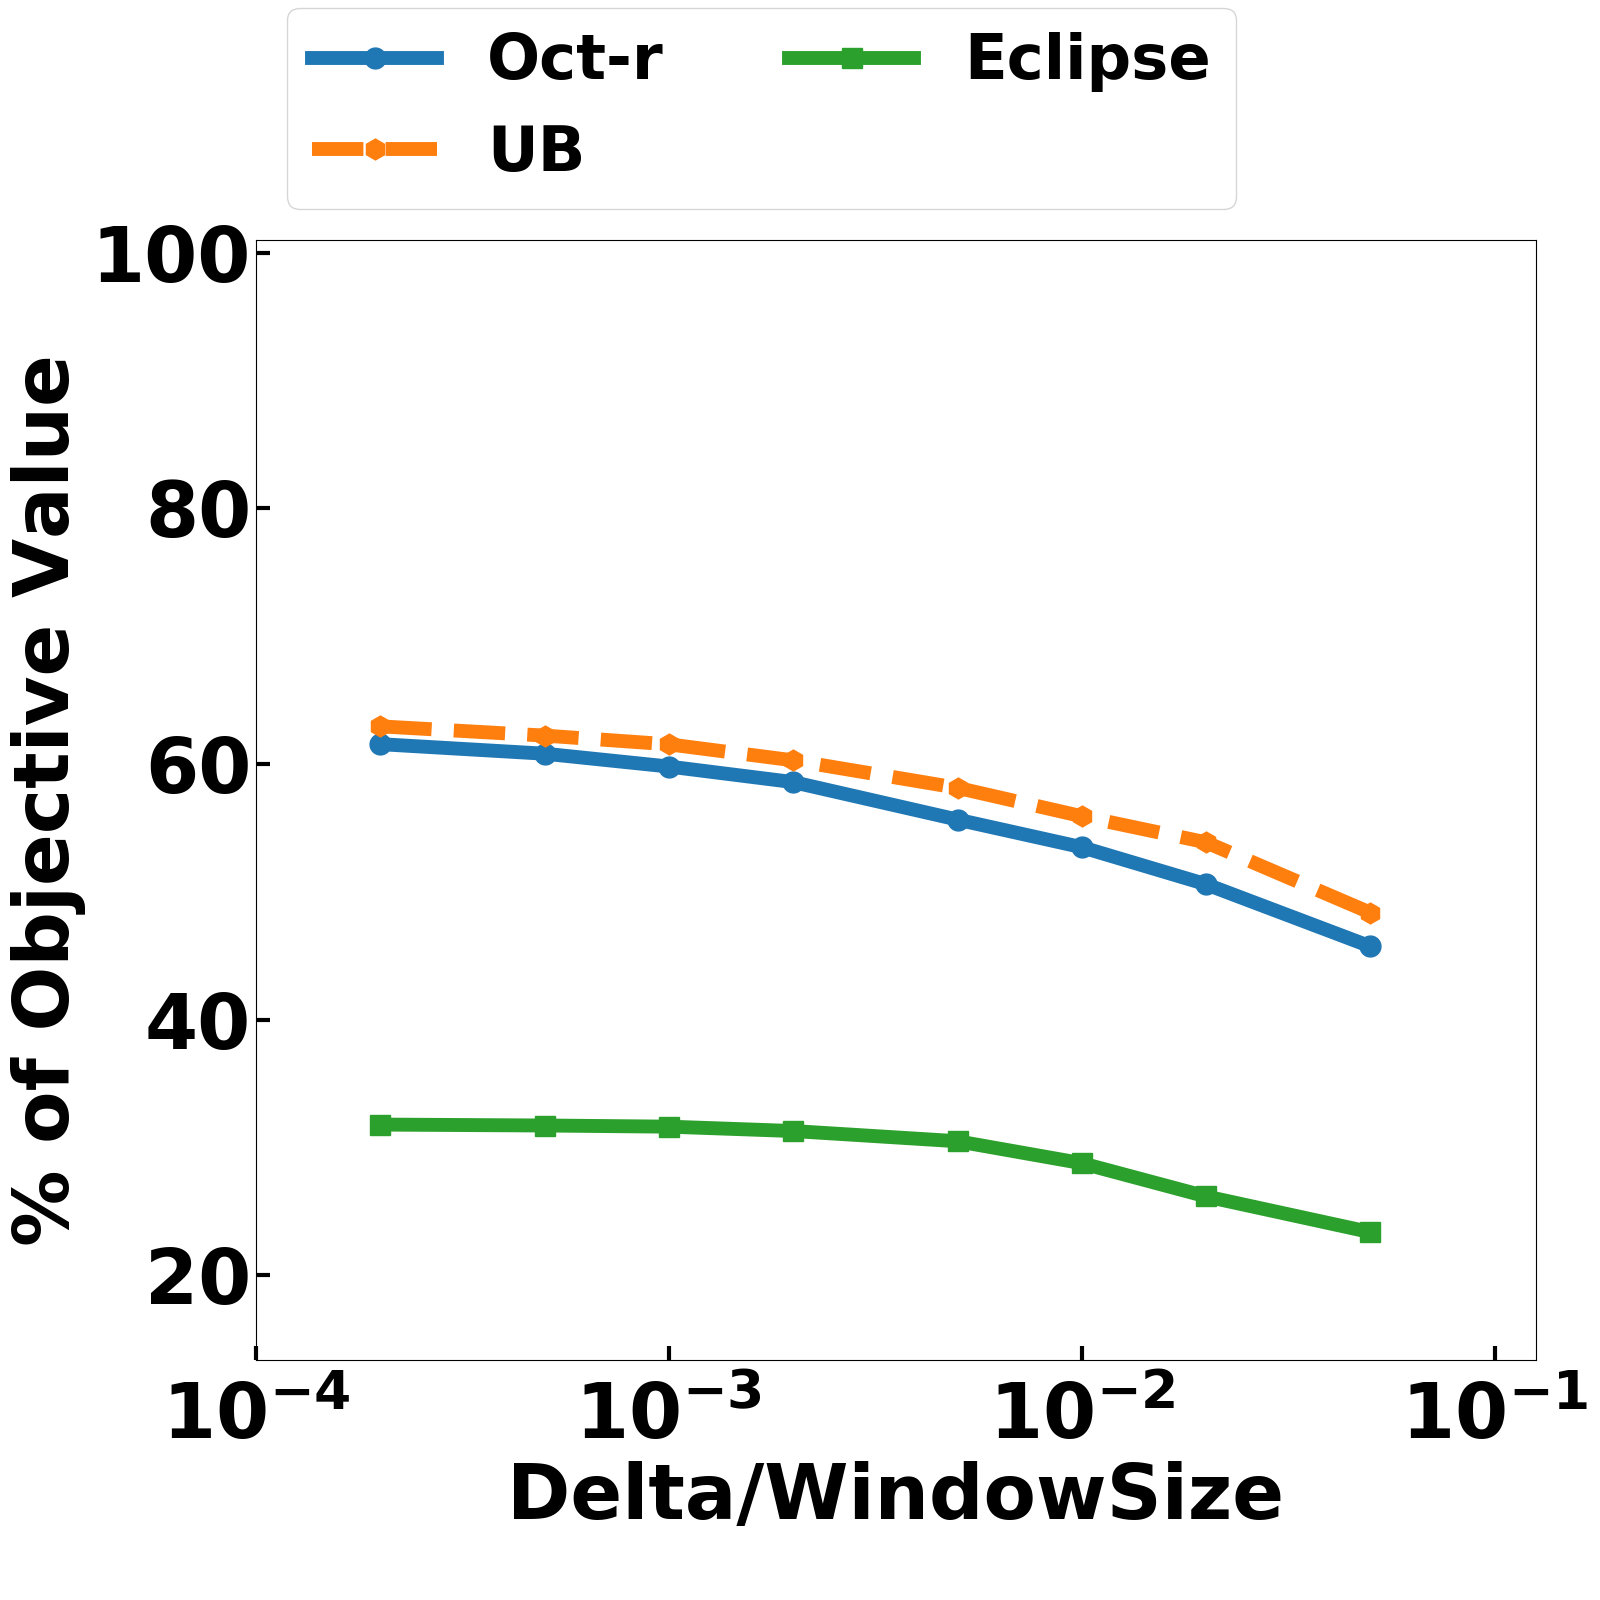
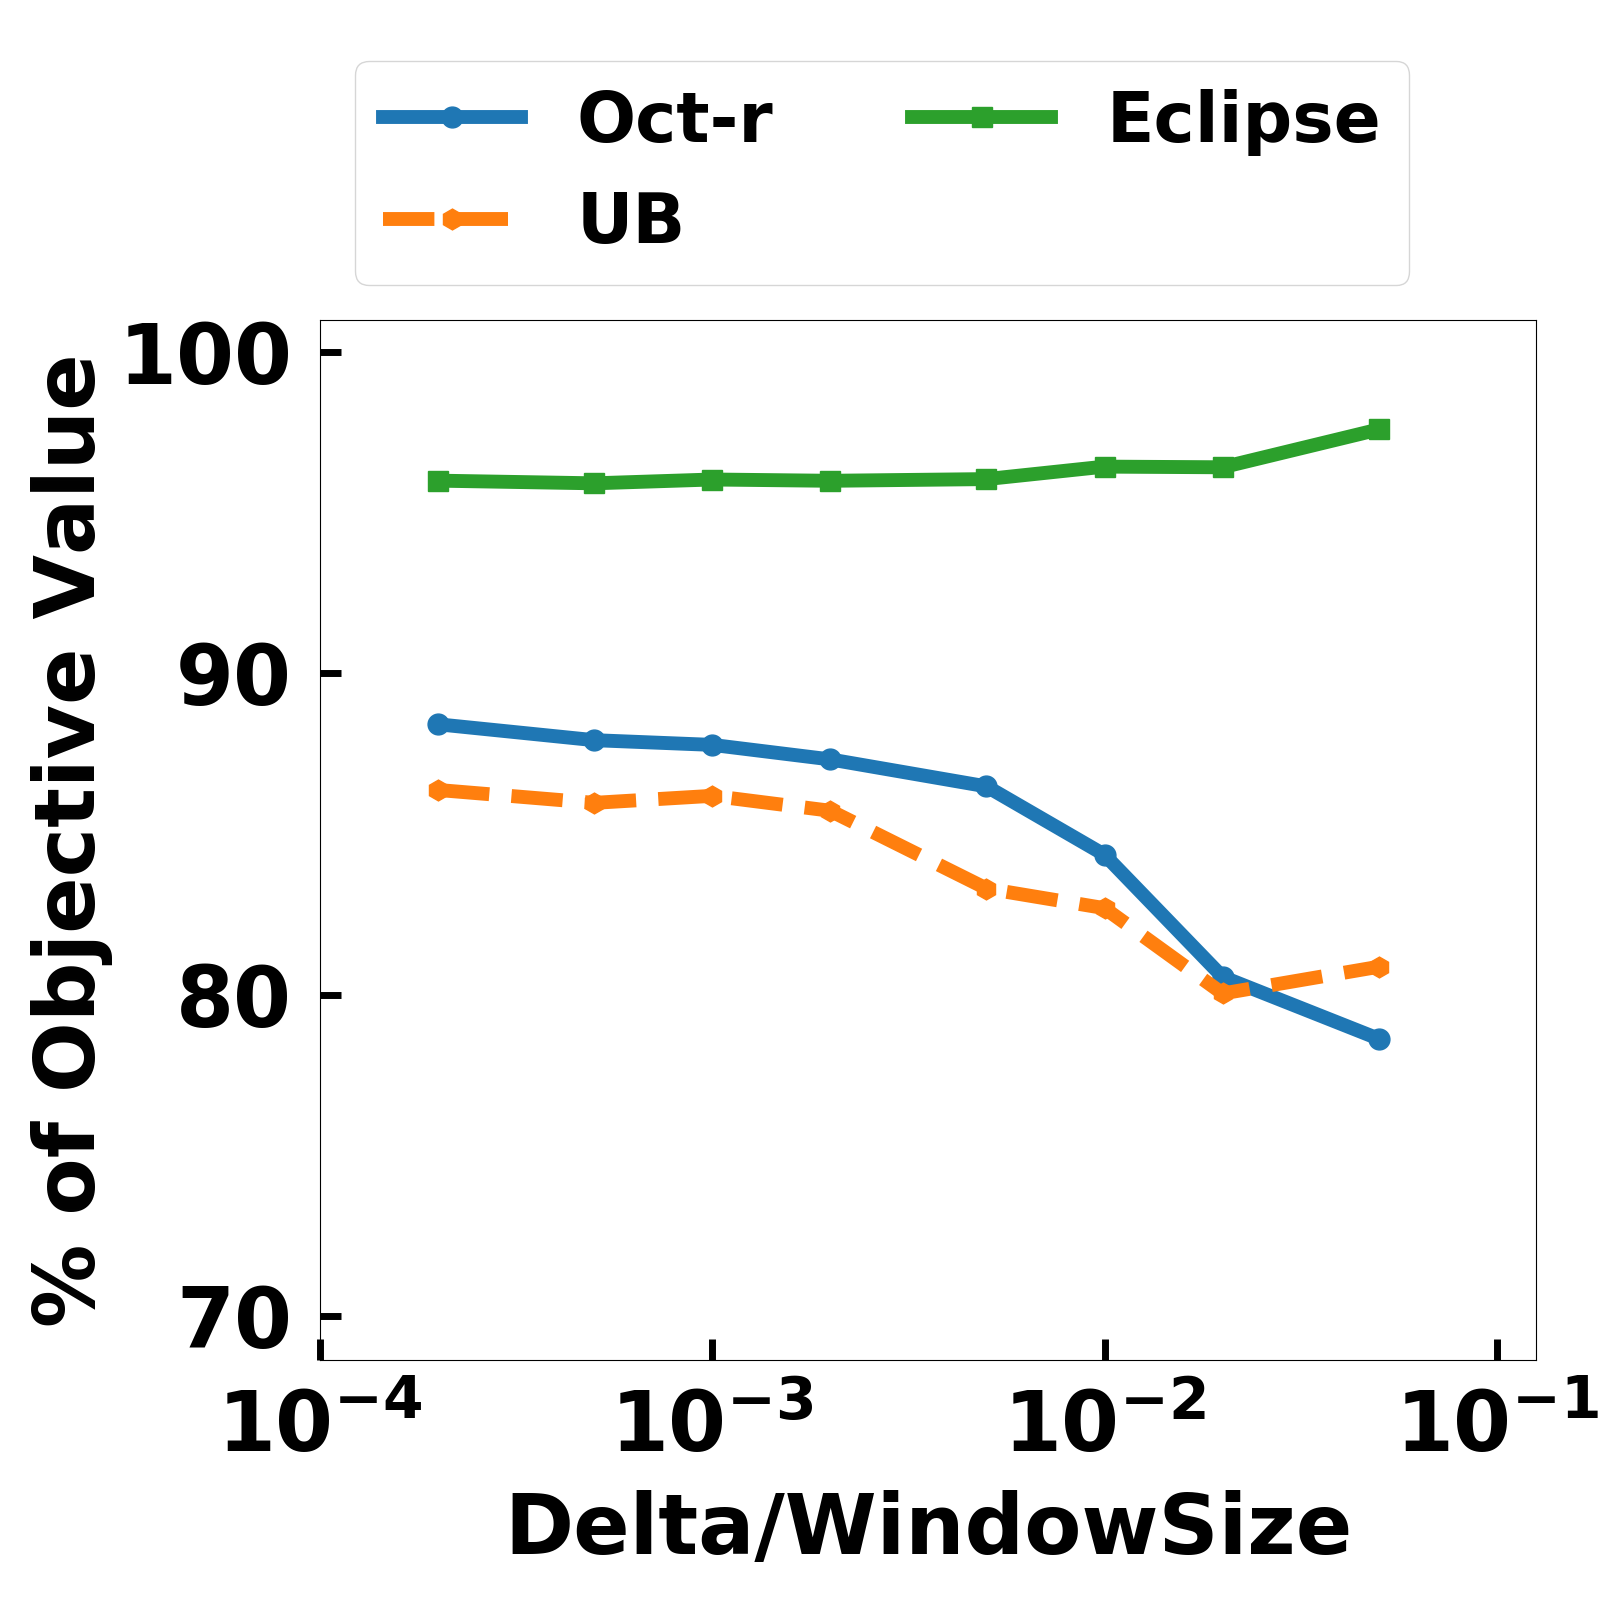
update one metric: % of objective value

diff --git a/plots.py b/plots.py
@@ -24,7 +24,7 @@ def getMetric(inpt, output, metric = 'percent_packets_delivered'):
 		return output.total_objective_value
 
 	if metric == 'percent_objective_value':
-		return output.total_objective_value / float(output.packets_delivered + output.packets_not_delivered)  * 100.0
+		return float(output.packets_delivered) / output.total_objective_value * 100.0
 
 	raise Exception('Unexpected metric: ' + str(metric))
 
@@ -296,11 +296,11 @@ if __name__ == '__main__':
 
 	path = 'data/6-22'
 
-	plot1_1(path)
-	plot1_2(path)
-	plot1_3(path)
-	plot1_4(path)
+	# plot1_1(path)
+	# plot1_2(path)
+	# plot1_3(path)
+	# plot1_4(path)
 	# plot2(path)
-	# plot3(path)
+	plot3(path)
 	# plot4(path)
 	# plot5(path)
